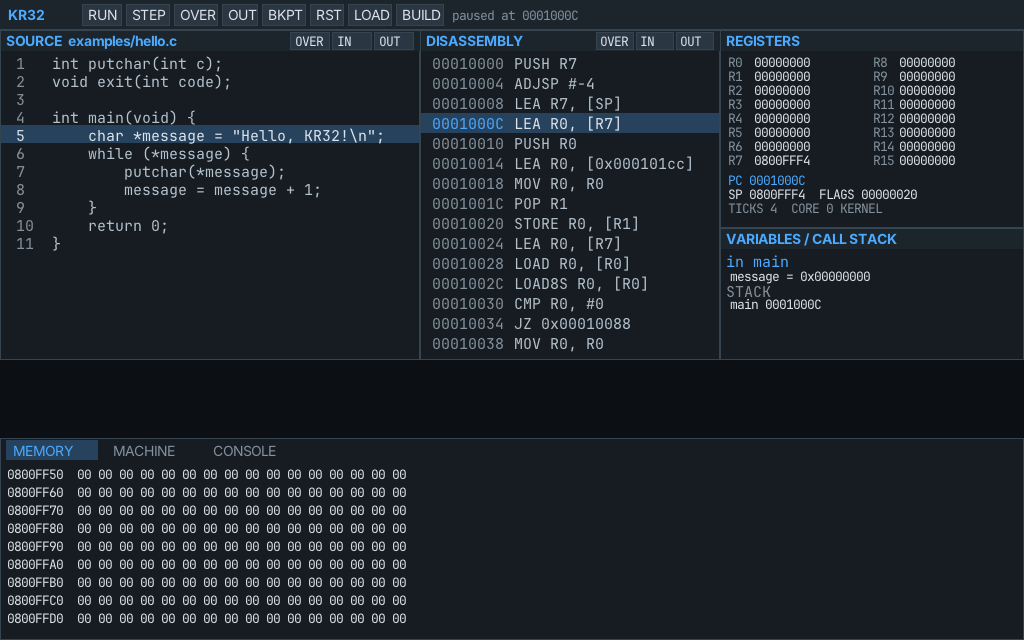
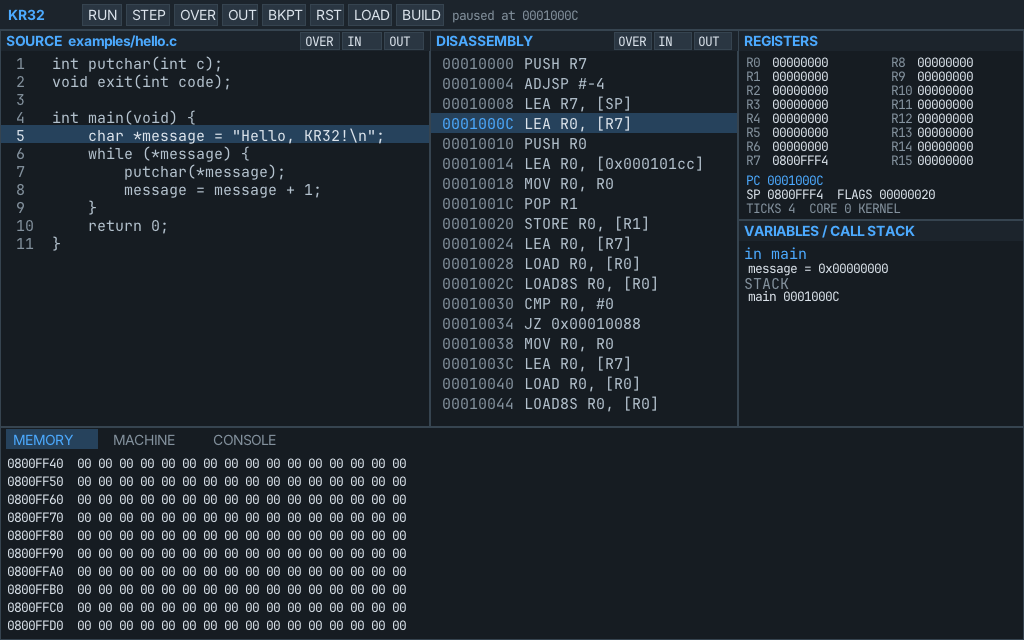
UI: resize the software surface and responsive layout

Changed region(s): [[0.0, 0.0312, 1.0, 1.0], [0.2812, 0.0312, 0.3438, 0.0938], [0.6875, 0.5312, 0.75, 0.5625]]

diff --git a/src/ui/debugger_ui.cpp b/src/ui/debugger_ui.cpp
@@ -29,7 +29,6 @@ constexpr Color kAccent{76, 170, 255, 255};
 constexpr Color kBad{255, 104, 104, 255};
 
 constexpr int kToolbarHeight = 30;
-constexpr int kBottomTop = 438;
 
 std::string hex(std::uint32_t value, int digits) {
     char buffer[24] = {};
@@ -561,14 +560,15 @@ void DebuggerUI::draw_variables(Canvas& canvas, Rect rect) {
 }
 
 void DebuggerUI::draw_memory(Canvas& canvas, Rect rect) {
-    constexpr std::uint32_t kRows = 9;
+    const std::uint32_t rows = std::max<std::uint32_t>(
+        3, static_cast<std::uint32_t>(std::max(0, rect.height - 8) / 18));
     const std::uint32_t sp = session_.machine().sp();
-    std::uint32_t base = sp > kRows * 16U + 16U ? sp - kRows * 16U - 16U : session_.machine().ram_base();
+    std::uint32_t base = sp > rows * 16U + 16U ? sp - rows * 16U - 16U : session_.machine().ram_base();
     base &= 0xFFFF'FFF0U;
     if (base < session_.machine().ram_base()) {
         base = session_.machine().ram_base();
     }
-    for (std::uint32_t row = 0; row < kRows; ++row) {
+    for (std::uint32_t row = 0; row < rows; ++row) {
         const std::uint32_t address = base + row * 16U;
         const int y = rect.y + 4 + static_cast<int>(row) * 18;
         std::string line = hex(address, 8) + "  ";
@@ -677,6 +677,31 @@ void DebuggerUI::draw_bottom(Canvas& canvas, Rect rect) {
     }
 }
 
+DebuggerUI::Layout DebuggerUI::layout(int width, int height) const {
+    const int right_width = std::clamp(width * 28 / 100, 260, 360);
+    int source_width = std::clamp(width * 42 / 100, 300, width - right_width - 240);
+    int disassembly_width = width - source_width - right_width;
+    if (disassembly_width < 240) {
+        disassembly_width = 240;
+        source_width = width - disassembly_width - right_width;
+    }
+    const int bottom_height = std::clamp(height / 3, 170, 240);
+    const int bottom_top = height - bottom_height;
+    const int top_height = bottom_top - kToolbarHeight;
+    int registers_height = std::clamp(top_height / 3, 190, 220);
+
+    Layout result;
+    result.source = Rect{0, kToolbarHeight, source_width, top_height};
+    result.disassembly = Rect{source_width, kToolbarHeight, disassembly_width, top_height};
+    result.registers =
+        Rect{source_width + disassembly_width, kToolbarHeight, right_width, registers_height};
+    result.variables = Rect{source_width + disassembly_width,
+                            kToolbarHeight + registers_height, right_width,
+                            top_height - registers_height};
+    result.bottom = Rect{0, bottom_top, width, bottom_height};
+    return result;
+}
+
 void DebuggerUI::draw_error(Canvas& canvas) {
     if (error_.empty()) {
         return;
@@ -694,24 +719,27 @@ void DebuggerUI::render(Canvas& canvas) {
     draw_toolbar(canvas);
     if (!loaded_) {
         canvas.text(40, 100, "KR32 WINDOWED DEBUGGER", kAccent, FontRole::UiBold);
-        canvas.text(40, 140, "usage: kr32 gui <image.k32>", kText);
-        canvas.text(40, 160, "F5 run  F10 over  F11 step  shift+F11 out  F9 breakpoint", kDim);
+        canvas.text(40, 140, "usage: kr32 gui <image.k32>", kText, FontRole::Mono);
+        canvas.text(40, 160, "F5 run  F10 over  F11 step  shift+F11 out  F9 breakpoint",
+                    kDim, FontRole::MonoSmall);
         draw_error(canvas);
         return;
     }
-    draw_source(canvas, Rect{0, kToolbarHeight, 420, 330});
-    draw_disassembly(canvas, Rect{420, kToolbarHeight, 300, 330});
-    draw_registers(canvas, Rect{720, kToolbarHeight, 304, 198});
-    draw_variables(canvas, Rect{720, 228, 304, 132});
-    draw_bottom(canvas, Rect{0, kBottomTop, 1024, 202});
+    const Layout areas = layout(canvas.width(), canvas.height());
+    draw_source(canvas, areas.source);
+    draw_disassembly(canvas, areas.disassembly);
+    draw_registers(canvas, areas.registers);
+    draw_variables(canvas, areas.variables);
+    draw_bottom(canvas, areas.bottom);
     draw_error(canvas);
 }
 
-bool DebuggerUI::click(int x, int y) {
+bool DebuggerUI::click(int x, int y, int width, int height) {
     if (!error_.empty()) {
         error_.clear();
         return true;
     }
+    const Layout areas = layout(width, height);
     if (y < kToolbarHeight) {
         if (x >= 82 && x < 122) {
             run();
@@ -732,36 +760,39 @@ bool DebuggerUI::click(int x, int y) {
         }
         return true;
     }
-    if (y >= kBottomTop + 2 && y < kBottomTop + 20) {
-        if (x < 106) {
+    if (y >= areas.bottom.y + 2 && y < areas.bottom.y + 22) {
+        if (x < areas.bottom.x + 106) {
             tab_ = Tab::Memory;
-        } else if (x < 206) {
+        } else if (x < areas.bottom.x + 206) {
             tab_ = Tab::Machine;
-        } else if (x < 306) {
+        } else if (x < areas.bottom.x + 306) {
             tab_ = Tab::Console;
         }
         return true;
     }
-    if (y >= kToolbarHeight + 2 && y < kToolbarHeight + 20) {
-        const int source_start = 420 - 3 * 42 - 4;
-        const int disassembly_start = 420 + 300 - 3 * 40 - 4;
-        if (x >= source_start && x < source_start + 3 * 42) {
-            const int index = (x - source_start) / 42;
+    if (y >= areas.source.y + 2 && y < areas.source.y + 20) {
+        const int button_start = areas.source.x + areas.source.width - 3 * 42 - 4;
+        if (x >= button_start && x < button_start + 3 * 42) {
+            const int index = (x - button_start) / 42;
             if (index == 0) step_line_over();
             if (index == 1) step_line_in();
             if (index == 2) step_line_out();
             return true;
         }
-        if (x >= disassembly_start && x < disassembly_start + 3 * 40) {
-            const int index = (x - disassembly_start) / 40;
+    }
+    if (y >= areas.disassembly.y + 2 && y < areas.disassembly.y + 20) {
+        const int button_start = areas.disassembly.x + areas.disassembly.width - 3 * 40 - 4;
+        if (x >= button_start && x < button_start + 3 * 40) {
+            const int index = (x - button_start) / 40;
             if (index == 0) step_over();
             if (index == 1) step();
             if (index == 2) step_out();
             return true;
         }
     }
-    if (x < 420 && y >= kToolbarHeight && y < kToolbarHeight + 330) {
-        const int row = (y - (kToolbarHeight + 20)) / 9;
+    if (x < areas.source.x + areas.source.width && y >= areas.source.y + 24 &&
+        y < areas.source.y + areas.source.height) {
+        const int row = (y - (areas.source.y + 24)) / 18;
         const int line = source_scroll_ + row + 1;
         std::uint32_t address = 0;
         if (source_line_to_address(line, address)) {
@@ -773,11 +804,15 @@ bool DebuggerUI::click(int x, int y) {
         }
         return true;
     }
-    if (x >= 420 && x < 720 && y >= kToolbarHeight && y < kToolbarHeight + 330) {
-        const int row = (y - (kToolbarHeight + 20)) / 9;
+    if (x >= areas.disassembly.x &&
+        x < areas.disassembly.x + areas.disassembly.width &&
+        y >= areas.disassembly.y + 24 && y < areas.disassembly.y + areas.disassembly.height) {
+        const int row = (y - (areas.disassembly.y + 24)) / 20;
         const std::uint32_t pc = session_.machine().pc();
-        const std::uint32_t before = 16U * 4U;
-        const std::uint32_t start = pc >= before ? pc - before : 0;
+        const int rows = std::max(1, (areas.disassembly.height - 28) / 20);
+        const std::uint32_t before = static_cast<std::uint32_t>((rows / 2) * 4);
+        std::uint32_t start = pc >= before ? pc - before : 0;
+        start = std::max(start, session_.machine().ram_base());
         const std::uint32_t address = start + static_cast<std::uint32_t>(row * 4);
         if (session_.breakpoints().find(address) != session_.breakpoints().end()) {
             session_.clear_breakpoint(address);

diff --git a/src/platform/sdl2/platform.cpp b/src/platform/sdl2/platform.cpp
@@ -90,6 +90,15 @@ bool Window::poll(Event& event) {
         case SDL_QUIT:
             event.kind = Event::Kind::Quit;
             return true;
+        case SDL_WINDOWEVENT:
+            if (sdl_event.window.event == SDL_WINDOWEVENT_RESIZED ||
+                sdl_event.window.event == SDL_WINDOWEVENT_SIZE_CHANGED) {
+                event.kind = Event::Kind::Resize;
+                event.x = sdl_event.window.data1;
+                event.y = sdl_event.window.data2;
+                return true;
+            }
+            break;
         case SDL_KEYDOWN:
             event.kind = Event::Kind::KeyDown;
             event.key = map_key(sdl_event.key.keysym.sym);
@@ -123,8 +132,22 @@ bool Window::poll(Event& event) {
 }
 
 void Window::present(const ui::Canvas& canvas) {
-    if (texture_ == nullptr || renderer_ == nullptr) {
+    if (renderer_ == nullptr) {
         return;
+    }
+    if (texture_ == nullptr || width_ != canvas.width() || height_ != canvas.height()) {
+        if (texture_ != nullptr) {
+            SDL_DestroyTexture(static_cast<SDL_Texture*>(texture_));
+            texture_ = nullptr;
+        }
+        width_ = canvas.width();
+        height_ = canvas.height();
+        texture_ = SDL_CreateTexture(static_cast<SDL_Renderer*>(renderer_),
+                                     SDL_PIXELFORMAT_ARGB8888, SDL_TEXTUREACCESS_STREAMING,
+                                     width_, height_);
+        if (texture_ == nullptr) {
+            return;
+        }
     }
     SDL_UpdateTexture(static_cast<SDL_Texture*>(texture_), nullptr, canvas.pixels().data(),
                       canvas.width() * static_cast<int>(sizeof(std::uint32_t)));

diff --git a/src/ui/app.cpp b/src/ui/app.cpp
@@ -5,6 +5,7 @@
 
 #include <chrono>
 #include <cstdio>
+#include <memory>
 #include <string>
 #include <thread>
 
@@ -68,7 +69,7 @@ int run(int argc, char** argv) {
         }
     }
 
-    Canvas canvas(1024, 640);
+    auto canvas = std::make_unique<Canvas>(1024, 640);
     bool running = true;
     while (running) {
         kr32::platform::Event event;
@@ -77,11 +78,16 @@ int run(int argc, char** argv) {
             case kr32::platform::Event::Kind::Quit:
                 running = false;
                 break;
+            case kr32::platform::Event::Kind::Resize:
+                if (event.x >= 800 && event.y >= 520) {
+                    canvas = std::make_unique<Canvas>(event.x, event.y);
+                }
+                break;
             case kr32::platform::Event::Kind::KeyDown:
                 (void)debugger.key(event.key, event.shift);
                 break;
             case kr32::platform::Event::Kind::MouseDown:
-                (void)debugger.click(event.x, event.y);
+                (void)debugger.click(event.x, event.y, canvas->width(), canvas->height());
                 break;
             case kr32::platform::Event::Kind::MouseMove:
             case kr32::platform::Event::Kind::MouseUp:
@@ -93,8 +99,8 @@ int run(int argc, char** argv) {
                 running = false;
             }
         }
-        debugger.render(canvas);
-        window.present(canvas);
+        debugger.render(*canvas);
+        window.present(*canvas);
         std::this_thread::sleep_for(std::chrono::milliseconds(16));
     }
     return 0;

diff --git a/include/kr32/ui/debugger_ui.h b/include/kr32/ui/debugger_ui.h
@@ -23,7 +23,7 @@ public:
     void toggle_breakpoint_at_current_line();
 
     void render(Canvas& canvas);
-    [[nodiscard]] bool click(int x, int y);
+    [[nodiscard]] bool click(int x, int y, int width, int height);
     [[nodiscard]] bool key(int key, bool shift);
     [[nodiscard]] bool quit_requested() const { return quit_; }
     [[nodiscard]] const std::string& status() const { return status_; }
@@ -32,8 +32,17 @@ public:
     [[nodiscard]] bool headless(const std::string& ppm_path);
 
 private:
+    struct Layout {
+        Rect source;
+        Rect disassembly;
+        Rect registers;
+        Rect variables;
+        Rect bottom;
+    };
+
     enum class Tab { Memory, Machine, Console };
 
+    [[nodiscard]] Layout layout(int width, int height) const;
     void set_status_from_result(const core::StepResult& result);
     void prepare_initial_stop();
     void draw_panel(Canvas& canvas, Rect rect, const std::string& title);

diff --git a/include/kr32/platform/window.h b/include/kr32/platform/window.h
@@ -20,7 +20,7 @@ inline constexpr int Down = 265;
 } // namespace key
 
 struct Event {
-    enum class Kind { None, Quit, KeyDown, MouseDown, MouseUp, MouseMove, Wheel };
+    enum class Kind { None, Quit, Resize, KeyDown, MouseDown, MouseUp, MouseMove, Wheel };
     Kind kind = Kind::None;
     int key = 0;
     bool shift = false;

diff --git a/implementation.md b/implementation.md
@@ -3,7 +3,7 @@
 > **Status:** active. This file is the working checklist, milestone gate, dependency
 > record, and running log for KR32.
 >
-> **Last updated:** 2026-11-02 07:03 -08:00
+> **Last updated:** 2026-11-02 07:10 -08:00
 >
 > **Related:** [KR32-plan.md](KR32-plan.md) (architecture and decisions),
 > [docs/isa-v1.md](docs/isa-v1.md) (encoding), [kr16-final-plan.md](kr16-final-plan.md)
@@ -804,6 +804,13 @@ Newest entries at the bottom. Use the local time zone.
       Over/In/Out controls. Added `DebugSession` line stepping and tests.
       Verification: 104 unit cases / 4346 assertions, 19 CTest on Windows and
       WSL UI builds, 17 CTest headless UI-off/ASan.
+- **2026-11-02 07:10 -08:00** — Made the debugger window genuinely resizable:
+      SDL resize events create a new software canvas and texture at the client
+      size; the layout now computes pane widths/heights responsively instead of
+      stretching the original 1024x640 surface. Verification: 104 unit cases /
+      4346 assertions, 19 CTest Windows Debug/Release/Ninja and WSL GCC/Clang,
+      17 headless UI-off/ASan; a 1280x900 live-window capture confirmed the
+      non-stretched layout.
 
 ## 10. Updating this file
 

diff --git a/README.md b/README.md
@@ -12,7 +12,8 @@ checklists, dependency notes, test gates, and running log are in
 route table, tick-driven device timing, DMA, a cooperative shared-RAM multicore
 cluster, IPIs, and LL/SC spinlock runs are implemented. The debugger now uses
 embedded Inter and JetBrains Mono fonts with separate source-line and
-instruction stepping controls. See [docs/devices.md](docs/devices.md) and
+instruction stepping controls, and resizes its software surface instead of
+stretching the original frame. See [docs/devices.md](docs/devices.md) and
 [docs/ui.md](docs/ui.md). The C++ toolchain is the remaining planned milestone.
 
 ## Build

diff --git a/docs/ui.md b/docs/ui.md
@@ -20,7 +20,8 @@ directly.
   and all painting/hit-testing. It is usable headlessly.
 - `platform::Window` is the SDL2 boundary: one window, one streaming ARGB8888
   texture, keyboard/mouse event mapping, and the `SDL_VIDEODRIVER=dummy` smoke
-  path.
+  path. Resizing the window recreates the software surface and texture at the
+  new size; the pane layout adapts instead of scaling the old 1024×640 frame.
 
 ## Layout
 
